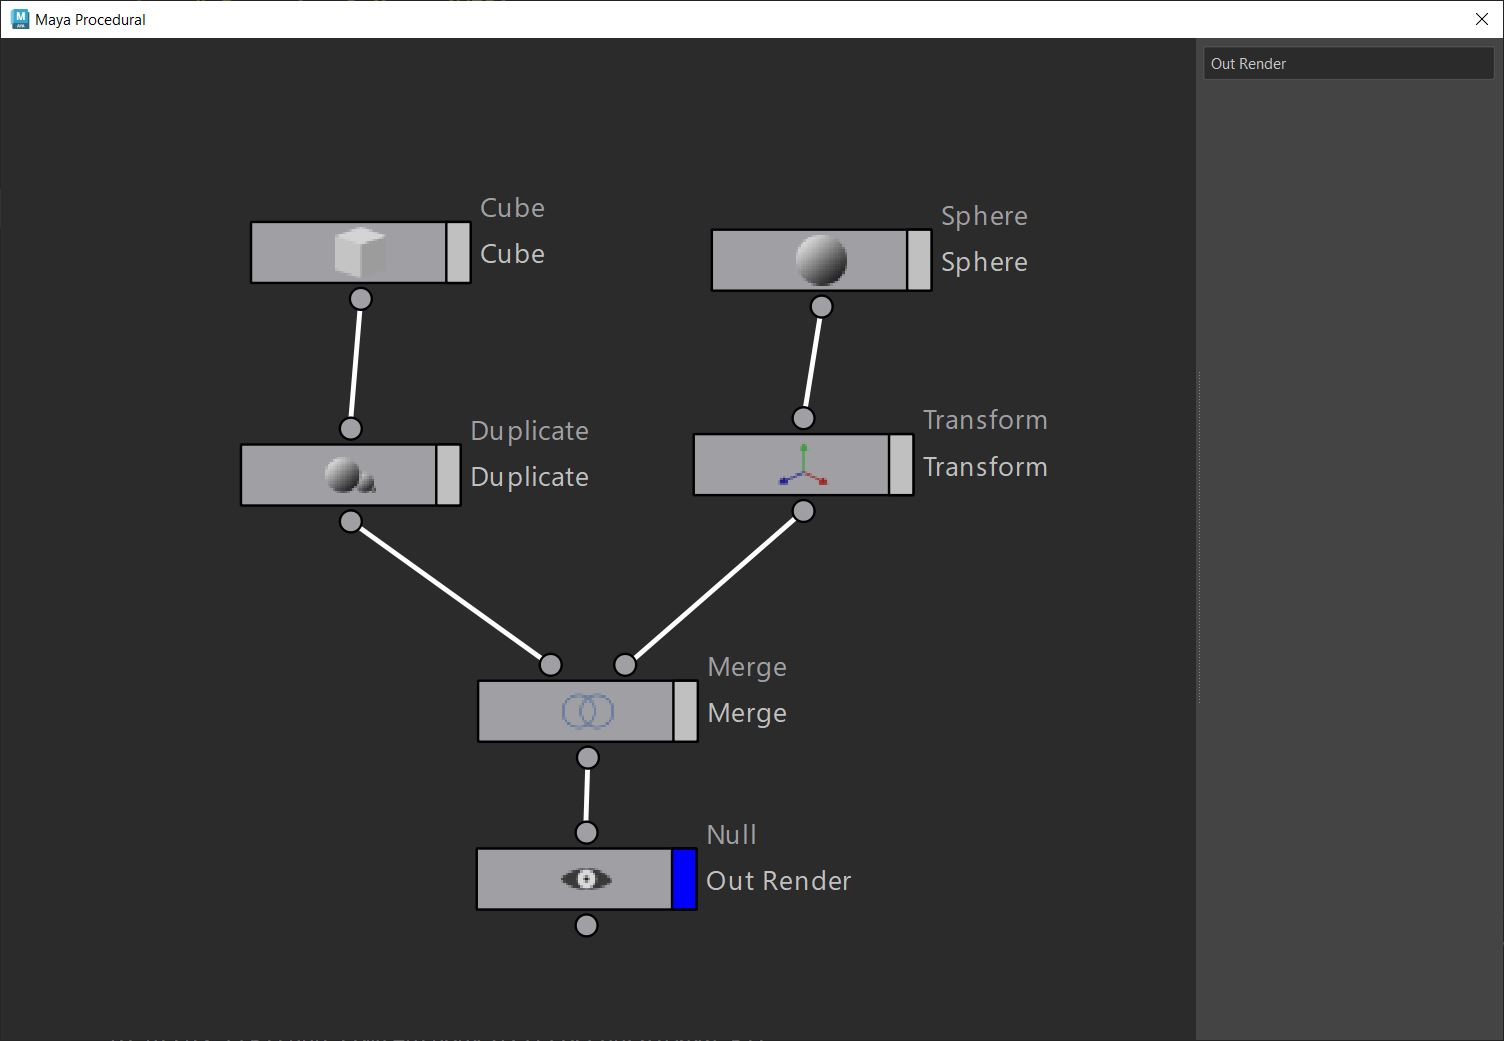
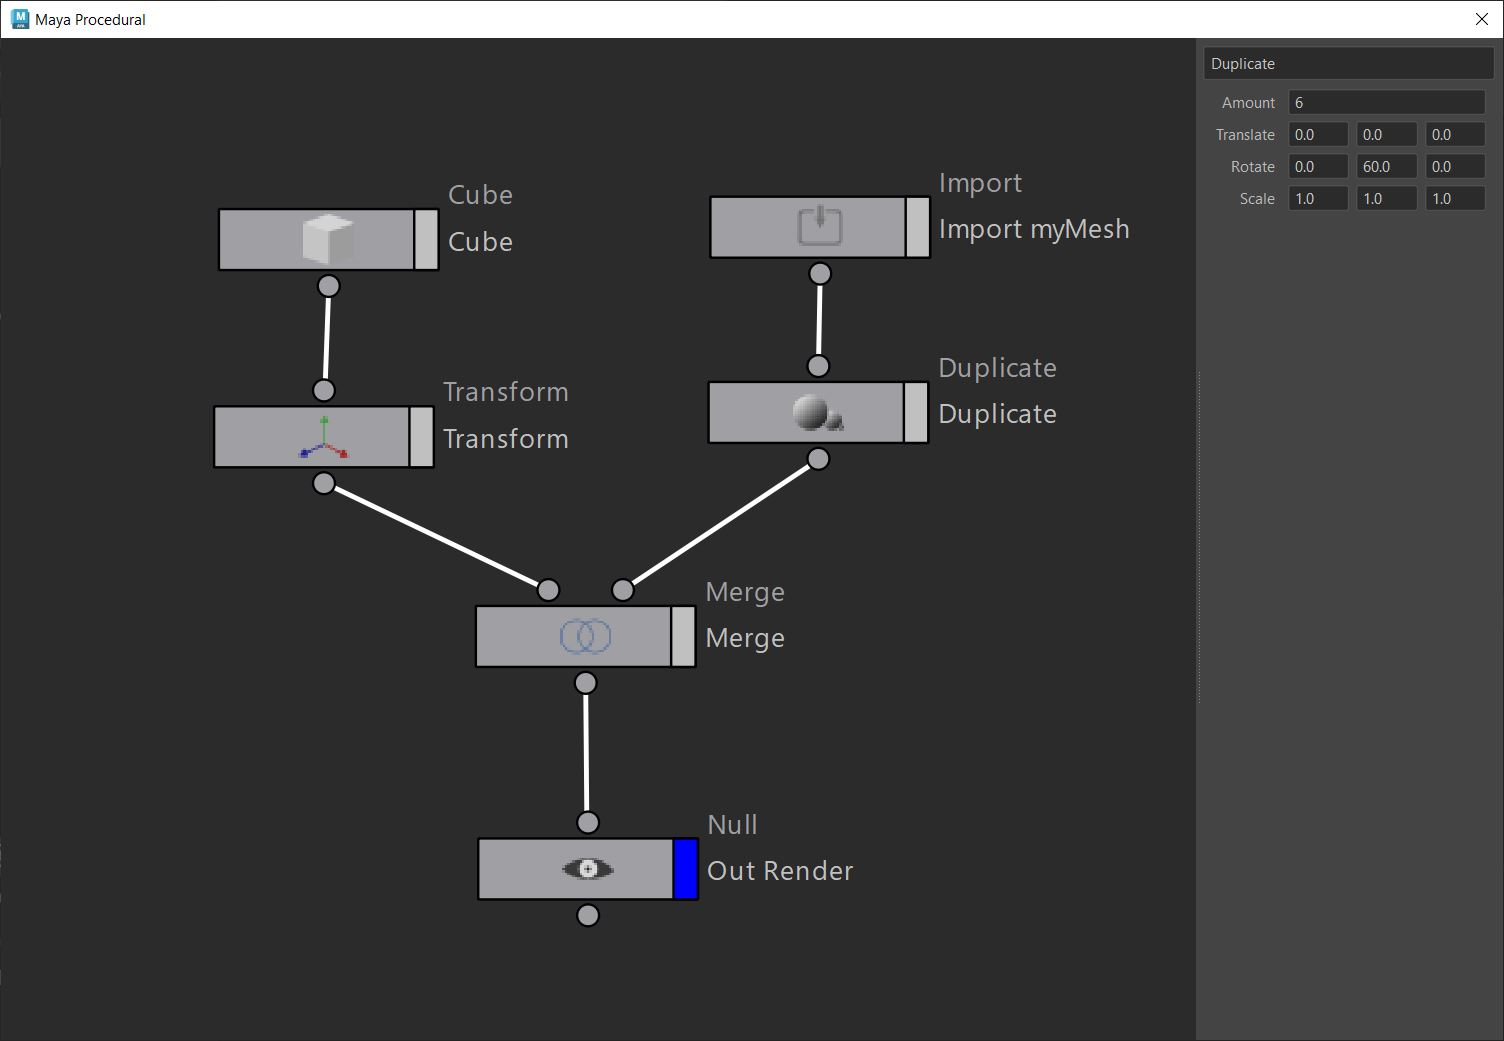
update readme for import node

diff --git a/README.md b/README.md
@@ -9,9 +9,12 @@ You can open a dropdown of all the available nodes by right-clicking on the scen
 
 You can link nodes and delete a connection by left-clicking on it.
 
+## Nodes
+
 For now, all the available nodes are working:
 - Cube
 - Sphere
+- Import (from scene)
 - Transform
 - Duplicate
 - Merge
